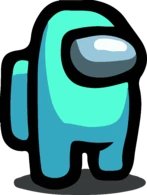
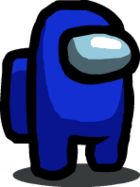
completed MVP

diff --git a/styles.css b/styles.css
@@ -2,13 +2,27 @@ body, html{
   height:100%;
 }
 body{
+  background: url('pic/Cafeteria.png');
   margin: 0px;
   background-color:#444;
   font-size: 18px;
+  background-size: auto;
 }
-body, a:link, a:visited, a:active{
+body, a:link,a:visited, a:active{
   color: lightblue;
 }
+a:hover{
+  color: #0000FF;
+  cursor: pointer;
+}
+
+
+
+.lineUpDancers, .groupUpDancers, .randomizeDancers{
+  padding:5px 12px;
+  float: left;
+}
+
 .title, .addDancerButton{
   padding:5px 12px;
   float:right;
@@ -18,34 +32,40 @@ body, a:link, a:visited, a:active{
   background-color: #555;
 }
 .title{
+  font-size: 18px;
+  font-weight: bold;
   background-color: #777;
+
 }
-/* .dancer{
 
-  background: url('pic/green.png');
-  background-size: 200px;
-  width: 200px;
-  height: 250px;
-  position:absolute;
+.dancer{
+  background-size: 20% 20%;
 
-} */
+  width: 20%;
+  height: 40%;
+  position: absolute;
+}
 .blinkyDancer{
 
-  background: url('pic/test.png');
-  background-size: 200px;
-  width: 200px;
-  height: 250px;
-  position:absolute;
+  background: url('pic/cyan.png');
+  background-repeat: no-repeat;
+  -webkit-animation:spin 4s linear infinite;
+  -moz-animation:spin 4s linear infinite;
+  animation:spin 4s linear infinite;
 
 }
+@-moz-keyframes spin { 100% { -moz-transform: rotate(360deg); } }
+@-webkit-keyframes spin { 100% { -webkit-transform: rotate(360deg); } }
+@keyframes spin { 100% { -webkit-transform: rotate(360deg); transform:rotate(360deg); } }
+
+
+
+
+
 .bouncyDancer{
 
   background: url('pic/red.png');
-  background-size: 200px;
-  width: 200px;
-  height: 250px;
-  position:absolute;
-
+  background-repeat: no-repeat;
 
   -webkit-animation-duration: 1s;
   animation-duration: 1s;
@@ -71,81 +91,28 @@ body, a:link, a:visited, a:active{
     animation-name: bounce;
  }
 
-  /* animation-name: bounce;
-  animation-timing-function: ease;
-
-  @keyframes bounce {
-    0% {
-      transform: scale(1,1)
-      translateY(0); }
-    10% {
-      transform: scale(1.1,.9)
-      translateY(0); }
-    30% {
-      transform: scale(.9,1.1)
-      translateY(0); }
-    50% {
-      transform: scale(1.05,.95)
-      translateY(0); }
-    57% {
-      transform: scale(1,1)
-      translateY(-7px); }
-    64% {
-      transform: scale(1,1)
-      translateY(0); }
-    100% {
-      transform: scale(1,1)
-      translateY(0); } */
-
-
-/* .bounce {
-  animation-name: bounce;
-  animation-timing-function: ease;
+.edmDancerCyan{
+  background: url('pic/cyan.png');
+  background-repeat: no-repeat;
 }
-@keyframes bounce {
-  0% {
-    transform: scale(1,1)
-    translateY(0); }
-  10% {
-    transform: scale(1.1,.9)
-    translateY(0); }
-  30% {
-    transform: scale(.9,1.1)
-    translateY(0); }
-  50% {
-    transform: scale(1.05,.95)
-    translateY(0); }
-  57% {
-    transform: scale(1,1)
-    translateY(-7px); }
-  64% {
-    transform: scale(1,1)
-    translateY(0); }
-  100% {
-    transform: scale(1,1)
-    translateY(0); }
-
-} */
-
-.edmDancer{
-
+.edmDancerRed{
+  background: url('pic/red.png');
+  background-repeat: no-repeat;
+}
+.edmDancerGreen{
+  background: url('pic/green.png');
+  background-repeat: no-repeat;
+}
+.edmDancerBlue{
   background: url('pic/blue.png');
-  background-size: 200px;
-  position:absolute;
-  width: 200px;
-  height: 250px;
-  animation: rotation 1.2s infinite ease-in-out;
+  background-repeat: no-repeat;
+}
+.edmDancerPurple{
+  background: url('pic/purple.png');
+  background-repeat: no-repeat;
+}
+.edmDancerPink{
+  background: url('pic/pink.png');
+  background-repeat: no-repeat;
+}
 
-}
-@keyframes rotation {
-  0% {
-    transform: perspective(120px) rotateX(0deg) rotateY(0deg);
-    -webkit-transform: perspective(120px) rotateX(0deg) rotateY(0deg)
-  } 50% {
-    transform: perspective(120px) rotateX(-180.1deg) rotateY(0deg);
-    -webkit-transform: perspective(120px) rotateX(-180.1deg) rotateY(0deg)
-  } 100% {
-    transform: perspective(120px) rotateX(-180deg) rotateY(-179.9deg);
-    -webkit-transform: perspective(120px) rotateX(-180deg) rotateY(-179.9deg);
-  }
-}

diff --git a/src/edmDancer.js b/src/edmDancer.js
@@ -1,12 +1,49 @@
 var makeEdmDancer = function(top, left, timeBetweenSteps) {
   makeDancer.call(this, top, left, timeBetweenSteps);
-  this.$node.addClass('edmDancer');
+  this.$node.addClass('edmDancerBlue');
+  this._changecolor = 1;
 };
 
 makeEdmDancer.prototype = Object.create(makeDancer.prototype);
 makeEdmDancer.prototype.constructor = makeBlinkyDancer;
 
 makeEdmDancer.prototype.step = function () {
-  //makeDancer.prototype.step.call(this);
-  this.$node.toggle();
+
+  makeDancer.prototype.step.call(this, 500);
+
+  if (this._changecolor === 0) {
+    this._changecolor = 1;
+    this.$node.removeClass('edmDancerCyan');
+    this.$node.addClass('edmDancerRed');
+  } else if (this._changecolor === 1) {
+    this._changecolor = 2;
+    this.$node.removeClass('edmDancerRed');
+    this.$node.addClass('edmDancerGreen');
+  } else if (this._changecolor === 2) {
+    this._changecolor = 3;
+    this.$node.removeClass('edmDancerGreen');
+    this.$node.addClass('edmDancerBlue');
+  } else if (this._changecolor === 3) {
+    this._changecolor = 4;
+    this.$node.removeClass('edmDancerBlue');
+    this.$node.addClass('edmDancerPurple');
+  } else if (this._changecolor === 4) {
+    this._changecolor = 5;
+    this.$node.removeClass('edmDancerPurple');
+    this.$node.addClass('edmDancerPink');
+  } else if (this._changecolor === 5) {
+    this._changecolor = 0;
+    this.$node.removeClass('edmDancerPink');
+    this.$node.addClass('edmDancerCyan');
+  }
+};
+
+makeEdmDancer.prototype.groupUp = function() {
+  var top = (Math.random() * 100) + 300;
+  var left = (Math.random() * 600) + 800;
+  this.$node.animate(
+    {
+      top: top,
+      left: left
+    }, 'slow');
 };

diff --git a/dancefloor.html b/dancefloor.html
@@ -12,10 +12,12 @@
   <body>
     <div class="topbar">
       <span class="title">object dance party</span>
-      <a href="#" class="addDancerButton" data-dancer-maker-function-name="makeBlinkyDancer">add a blinky dancer</a>
-      <a href="#" class="addDancerButton" data-dancer-maker-function-name="makeBouncyDancer">add a bouncy dancer</a>
-      <a href="#" class="addDancerButton" data-dancer-maker-function-name="makeEdmDancer">add an edm dancer</a>
-      <a href="#" class="lineUpDancers">line up dancers</a>
+      <a href="#" class="addDancerButton" data-dancer-maker-function-name="makeBlinkyDancer">Add a blinky dancer</a>
+      <a href="#" class="addDancerButton" data-dancer-maker-function-name="makeBouncyDancer">Add a bouncy dancer</a>
+      <a href="#" class="addDancerButton" data-dancer-maker-function-name="makeEdmDancer">Add an EDM dancer</a>
+      <a href="#" class="lineUpDancers">Line up dancers</a>
+      <a href="#" class="groupUpDancers">Group up dancers</a>
+      <a href="#" class="randomizeDancers">Mingle!</a>
 
     </div>
     <script src="src/init.js"></script>

diff --git a/src/dancer.js b/src/dancer.js
@@ -24,10 +24,17 @@ makeDancer.prototype.setPosition = function() {
 };
 
 makeDancer.prototype.lineUp = function() {
-  var styleSettings = {
-    top: 500,
-    left: this.left
-  };
-  this.$node.css(styleSettings);
-  this.$node.animate({top: '250px'}, 'slow');
+  var left = Math.random() * 1100;
+  this.$node.animate({top: '250px',
+    left: left}, 'slow');
+};
+
+makeDancer.prototype.groupUp = function() {
+};
+
+makeDancer.prototype.randomize = function() {
+  var left = Math.random() * 1100;
+  var top = Math.random() * 600;
+  this.$node.animate({top: top,
+    left: left}, 'slow');
 };

diff --git a/src/init.js b/src/init.js
@@ -36,4 +36,21 @@ $(document).ready(function() {
       item.lineUp();
     });
   });
+
+  $('.groupUpDancers').on('click', function(event) {
+    window.dancers.forEach(function(item) {
+      item.groupUp();
+    });
+  });
+
+  $('.randomizeDancers').on('click', function(event) {
+    window.dancers.forEach(function(item) {
+      item.randomize();
+    });
+  });
+
+  $(document).on('click', '.dancer', function(event) {
+    $(this).remove();
+  });
 });
+

diff --git a/src/blinkyDancer.js b/src/blinkyDancer.js
@@ -11,3 +11,11 @@ makeBlinkyDancer.prototype.step = function () {
   makeDancer.prototype.step.call(this);
   this.$node.toggle();
 };
+
+makeBlinkyDancer.prototype.groupUp = function() {
+  var top = (Math.random() * 100);
+  var left = (Math.random() * 300) + 375;
+  this.$node.animate({
+    top: top,
+    left: left}, 'slow');
+};

diff --git a/src/bouncyDancer.js b/src/bouncyDancer.js
@@ -10,3 +10,10 @@ makeBouncyDancer.prototype.constructor = makeBouncyDancer;
 makeBouncyDancer.prototype.step = function () {
 
 };
+makeBouncyDancer.prototype.groupUp = function() {
+  var top = (Math.random() * 100) + 300;
+  var left = (Math.random() * 200);
+  this.$node.animate({
+    top: top,
+    left: left}, 'slow');
+};
